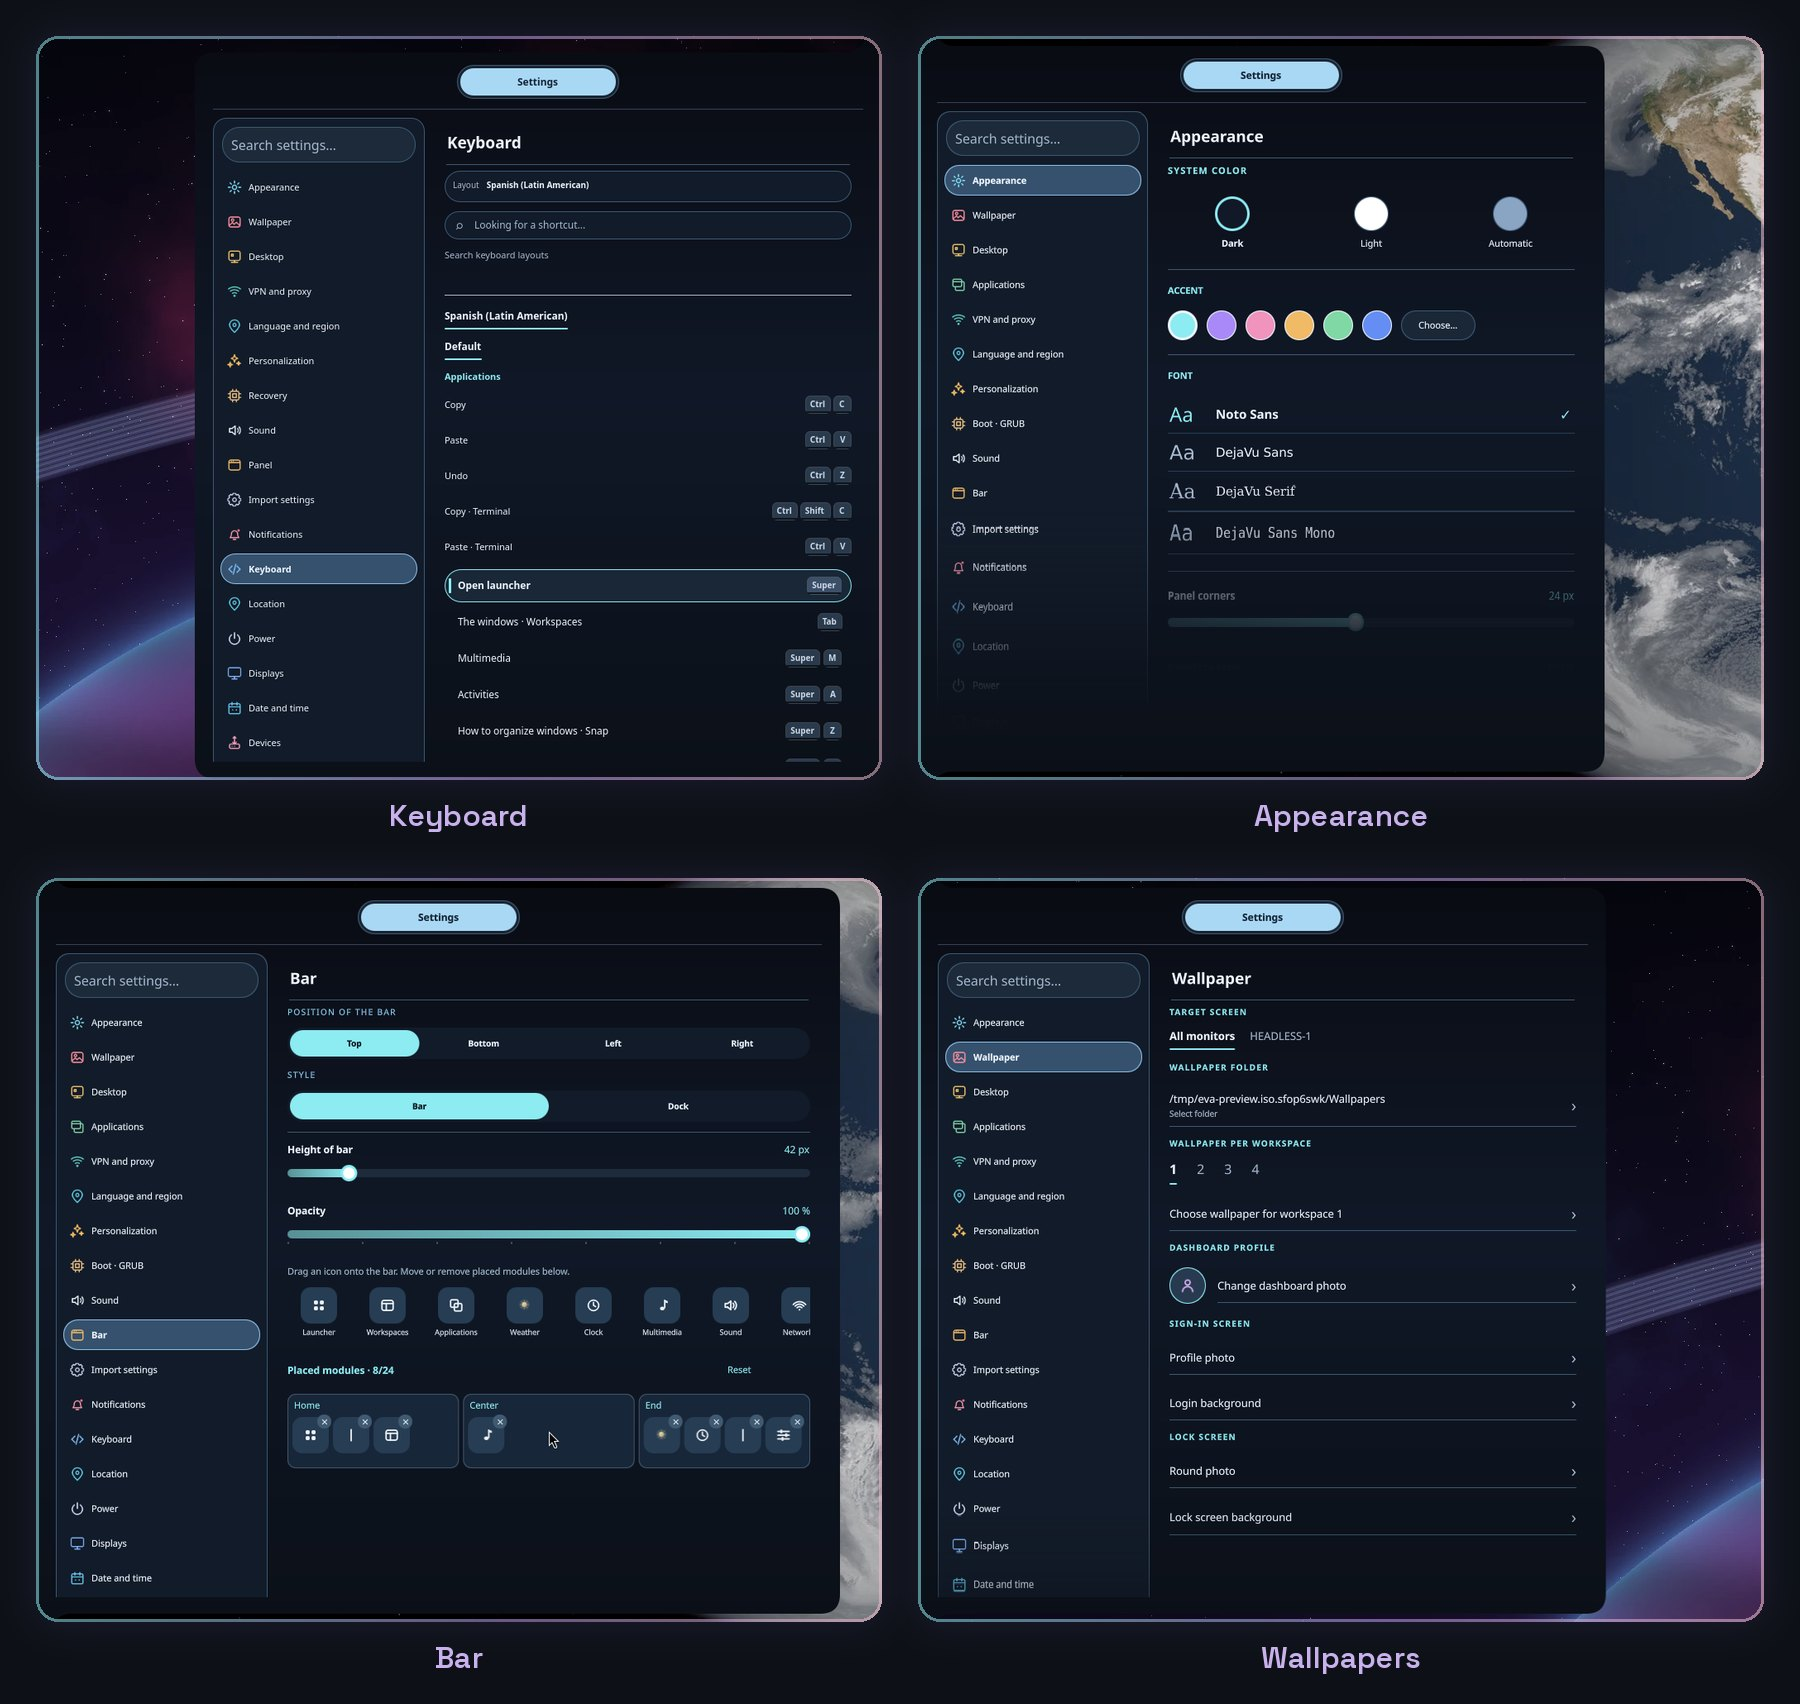
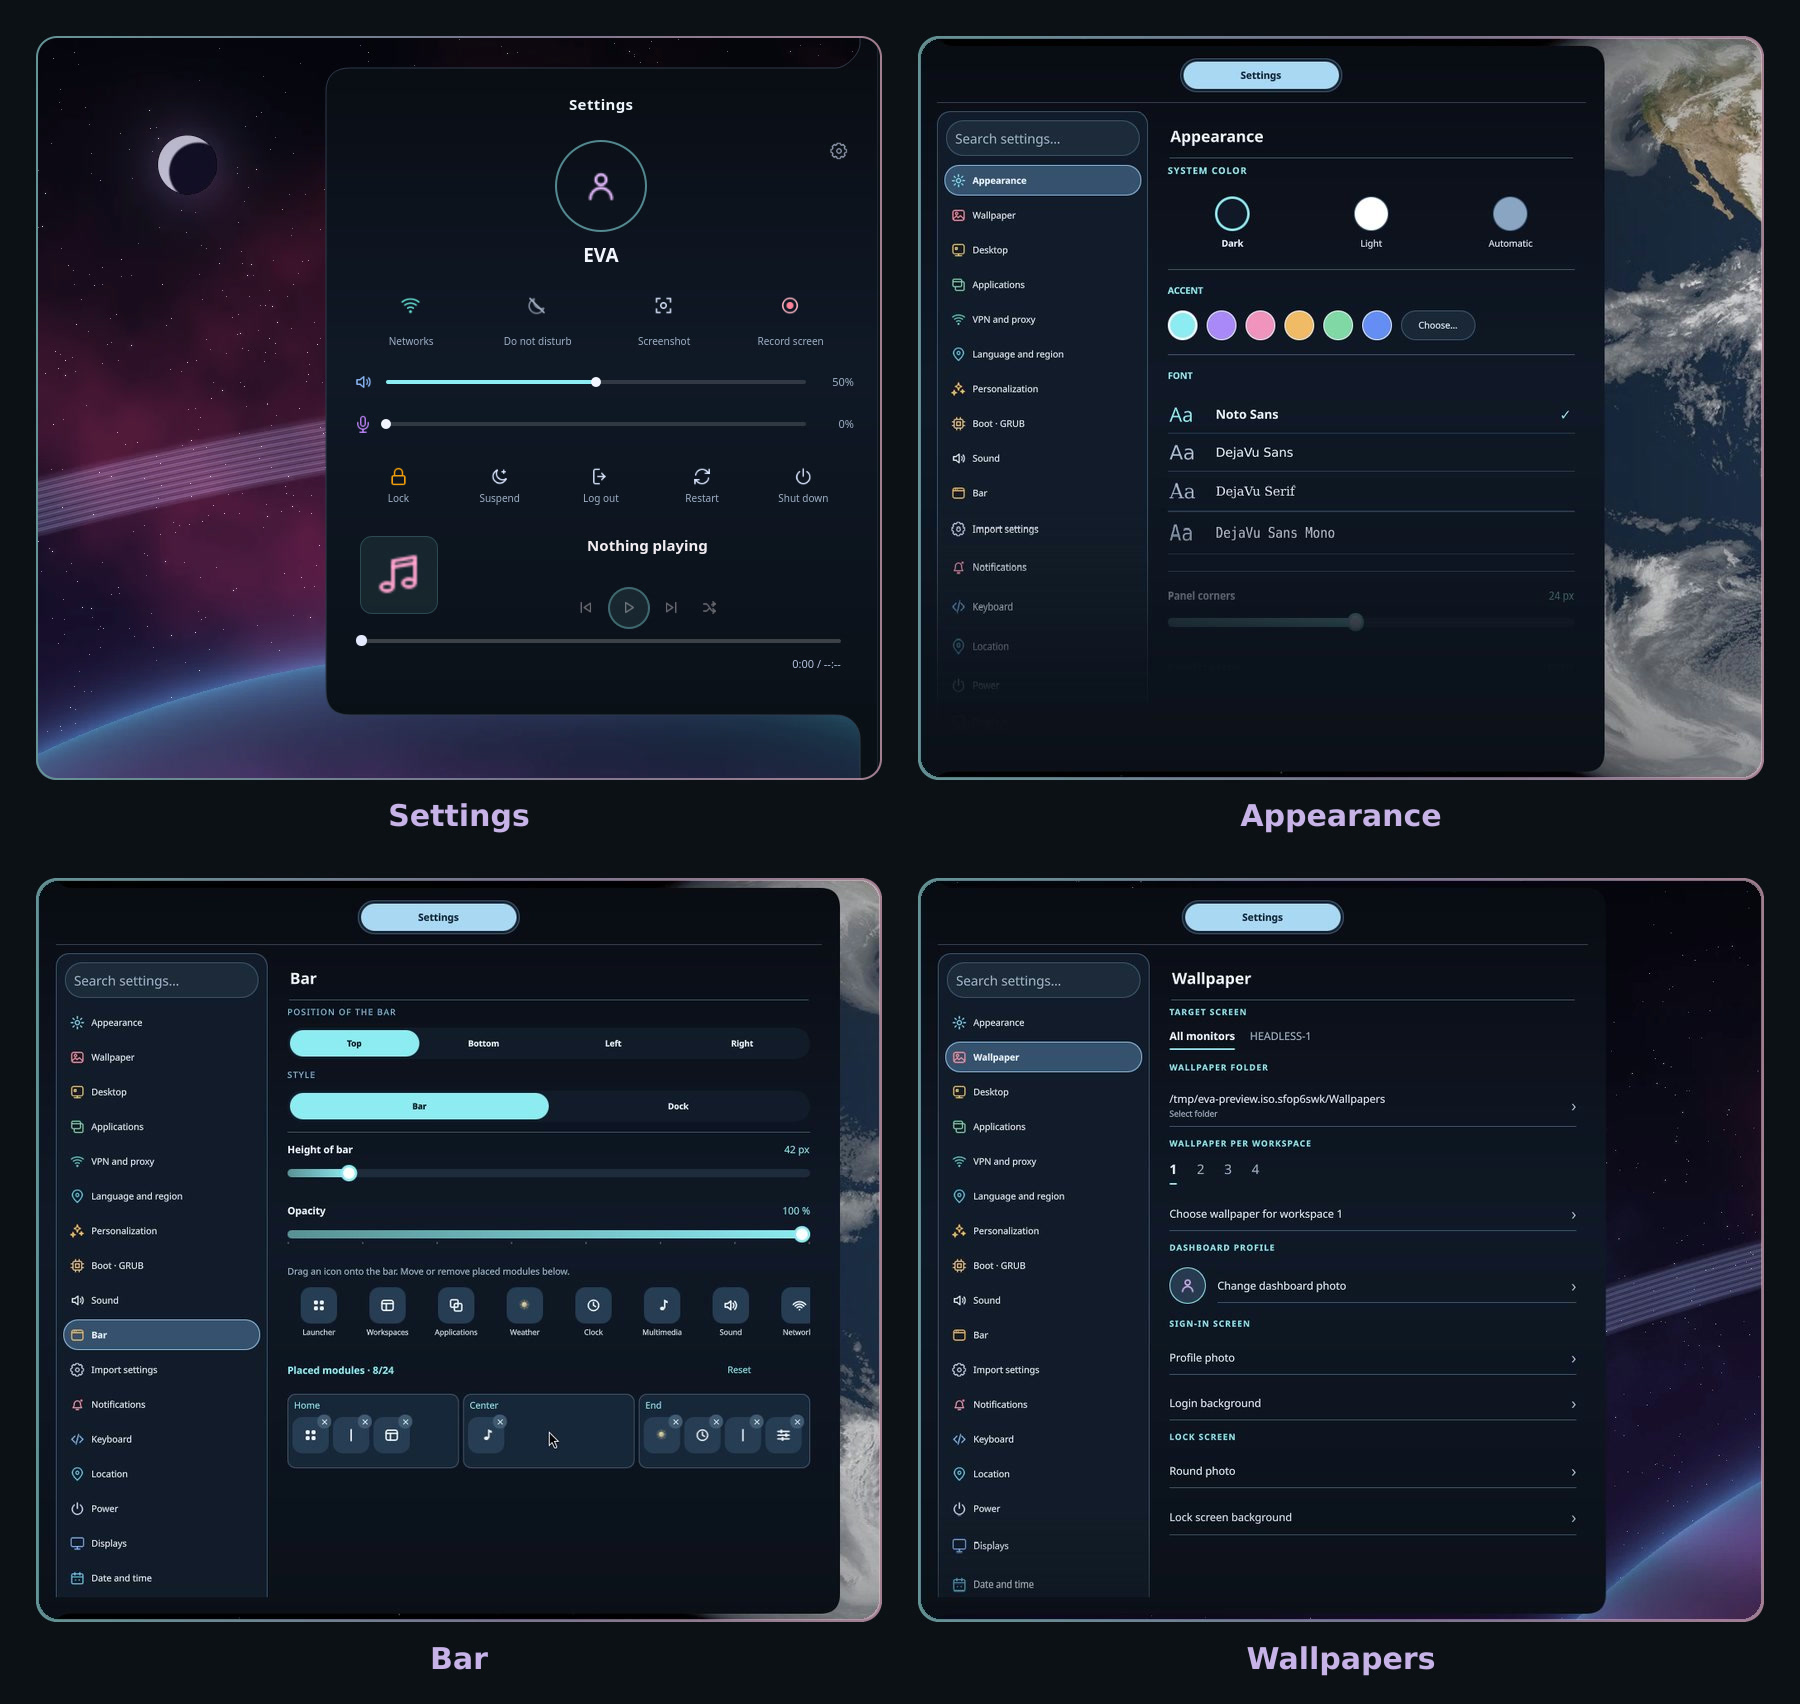
Actualizar Ajustes y la guía de instalación de 64 y 32 bits

diff --git a/docs/es/installation.md b/docs/es/installation.md
@@ -2,11 +2,11 @@
 
 # Probar e instalar EVA
 
-1. Descarga la **ISO beta x86_64** desde el enlace de la presentación.
-2. Prepara un USB de arranque. Si ya tienes un USB con Ventoy, copia la ISO y selecciónala al arrancar.
-3. Inicia la sesión Live y comprueba pantallas, teclado, audio, red y gráficos de tu equipo.
-4. Abre la bienvenida de EVA e inicia el instalador gráfico Calamares.
-5. Revisa el destino y los cambios de particiones antes de aplicarlos. Guarda una copia de los archivos que quieras conservar.
-6. Después de instalar, elige el tema de arranque en **Ajustes → Arranque · GRUB**.
+1. En la presentación, pulsa **Descargar ISO (64)** para un PC de 64 bits o **ISO (32)** para uno de 32 bits. Si tienes dudas, consulta [Tu PC](compatibility.md).
+2. Prepara un USB con [Ventoy](https://www.ventoy.net/en/doc_start.html). Instalar Ventoy borra el USB: guarda antes sus archivos. Después, copia la ISO al USB **sin descomprimirla**.
+3. Reinicia y abre el **menú de arranque** del equipo: suele ser **F11, F12, Esc o F9**, según el fabricante. Selecciona el USB y, en Ventoy, la ISO de EVA.
+4. Elige **Start Eva Live** para probar EVA. Comprueba que funcionan la pantalla, la red y el sonido; después abre **Instalar EVA** para iniciar Calamares.
+5. Sigue el asistente: idioma, zona horaria, teclado, usuario y contraseña. En **Particiones**, elige el disco y la instalación que necesitas; puedes usar las opciones automáticas o el particionado manual. Guarda una copia de tus archivos y revisa el resumen antes de instalar, especialmente si conservas Windows u otro sistema.
+6. Al terminar, reinicia y retira el USB cuando se indique. EVA arrancará desde el disco donde la instalaste.
 
-La carpeta de descarga y las capturas son independientes: las capturas pueden mostrar un desarrollo más reciente. Comprueba nombre y fecha de la ISO al descargar.
+La ISO de 32 bits requiere **i686 con SSE2** y **BIOS o UEFI de 32 bits**. Para un procesador de 64 bits, usa la ISO (64), aunque tenga poca RAM.

diff --git a/docs/en/installation.md b/docs/en/installation.md
@@ -2,11 +2,11 @@
 
 # Try and install EVA
 
-1. Download the **x86_64 beta ISO** from the download link on the presentation page.
-2. Prepare a bootable USB. With an existing Ventoy USB, copy the ISO onto it and select it at boot.
-3. Start the Live session and check displays, keyboard, audio, network and graphics on your computer.
-4. Open EVA's welcome window and launch the graphical Calamares installer.
-5. Review the destination and partition changes before applying them. Back up files you want to keep.
-6. After installation, choose a boot theme in **Settings → Boot · GRUB**.
+1. On the presentation page, choose **Download ISO (64)** for a 64-bit PC or **ISO (32)** for a 32-bit PC. Not sure? Check [Your PC](compatibility.md).
+2. Prepare a USB drive with [Ventoy](https://www.ventoy.net/en/doc_start.html). Installing Ventoy erases the USB drive: back up its files first. Then copy the ISO onto it **without extracting it**.
+3. Restart and open your computer’s **boot menu**, usually **F11, F12, Esc or F9**, depending on the manufacturer. Select the USB drive, then choose the EVA ISO in Ventoy.
+4. Select **Start Eva Live** to try EVA. Check that your display, network and audio work; then open **Install EVA** to start Calamares.
+5. Follow the wizard: language, time zone, keyboard, account and password. Under **Partitions**, select the disk and installation you need; automatic and manual partitioning options are available. Back up your files and review the summary before installing, especially if keeping Windows or another system.
+6. When installation finishes, restart and remove the USB drive when prompted. EVA will boot from the disk where you installed it.
 
-The download folder and screenshots are independent: screenshots can show a newer development build. Check the ISO filename and date when downloading.
+The 32-bit ISO requires **i686 with SSE2** and **BIOS or 32-bit UEFI**. For a 64-bit processor, use ISO (64), even with little RAM.

diff --git a/docs/en/README.md b/docs/en/README.md
@@ -25,7 +25,7 @@
 
 <img src="../../assets/design/section-settings-en.svg?v=20261121-badges" alt="Settings" width="100%"/>
 
-<img src="../../assets/gallery/settings-en.jpg" alt="Settings: keyboard, appearance, bar and wallpapers" width="100%"/>
+<img src="../../assets/gallery/settings-en.jpg?v=20261122-settings" alt="Settings: control center, appearance, bar and wallpapers" width="100%"/>
 
 <img src="../../assets/design/section-companions-en.svg?v=20261121-badges" alt="Widgets &amp; pets" width="100%"/>
 

diff --git a/docs/es/README.md b/docs/es/README.md
@@ -25,7 +25,7 @@
 
 <img src="../../assets/design/section-settings-es.svg?v=20261121-badges" alt="Ajustes" width="100%"/>
 
-<img src="../../assets/gallery/settings-es.jpg" alt="Ajustes: teclado, apariencia, barra y fondos" width="100%"/>
+<img src="../../assets/gallery/settings-es.jpg?v=20261122-settings" alt="Ajustes: panel de control, apariencia, barra y fondos" width="100%"/>
 
 <img src="../../assets/design/section-companions-es.svg?v=20261121-badges" alt="Widgets y mascotas" width="100%"/>
 

diff --git a/README.en.md b/README.en.md
@@ -25,7 +25,7 @@
 
 <img src="assets/design/section-settings-en.svg?v=20261121-badges" alt="Settings" width="100%"/>
 
-<img src="assets/gallery/settings-en.jpg" alt="Settings: keyboard, appearance, bar and wallpapers" width="100%"/>
+<img src="assets/gallery/settings-en.jpg?v=20261122-settings" alt="Settings: control center, appearance, bar and wallpapers" width="100%"/>
 
 <img src="assets/design/section-companions-en.svg?v=20261121-badges" alt="Widgets &amp; pets" width="100%"/>
 

diff --git a/README.es.md b/README.es.md
@@ -25,7 +25,7 @@
 
 <img src="assets/design/section-settings-es.svg?v=20261121-badges" alt="Ajustes" width="100%"/>
 
-<img src="assets/gallery/settings-es.jpg" alt="Ajustes: teclado, apariencia, barra y fondos" width="100%"/>
+<img src="assets/gallery/settings-es.jpg?v=20261122-settings" alt="Ajustes: panel de control, apariencia, barra y fondos" width="100%"/>
 
 <img src="assets/design/section-companions-es.svg?v=20261121-badges" alt="Widgets y mascotas" width="100%"/>
 

diff --git a/README.md b/README.md
@@ -25,7 +25,7 @@
 
 <img src="assets/design/section-settings-es.svg?v=20261121-badges" alt="Ajustes" width="100%"/>
 
-<img src="assets/gallery/settings-es.jpg" alt="Ajustes: teclado, apariencia, barra y fondos" width="100%"/>
+<img src="assets/gallery/settings-es.jpg?v=20261122-settings" alt="Ajustes: panel de control, apariencia, barra y fondos" width="100%"/>
 
 <img src="assets/design/section-companions-es.svg?v=20261121-badges" alt="Widgets y mascotas" width="100%"/>
 
